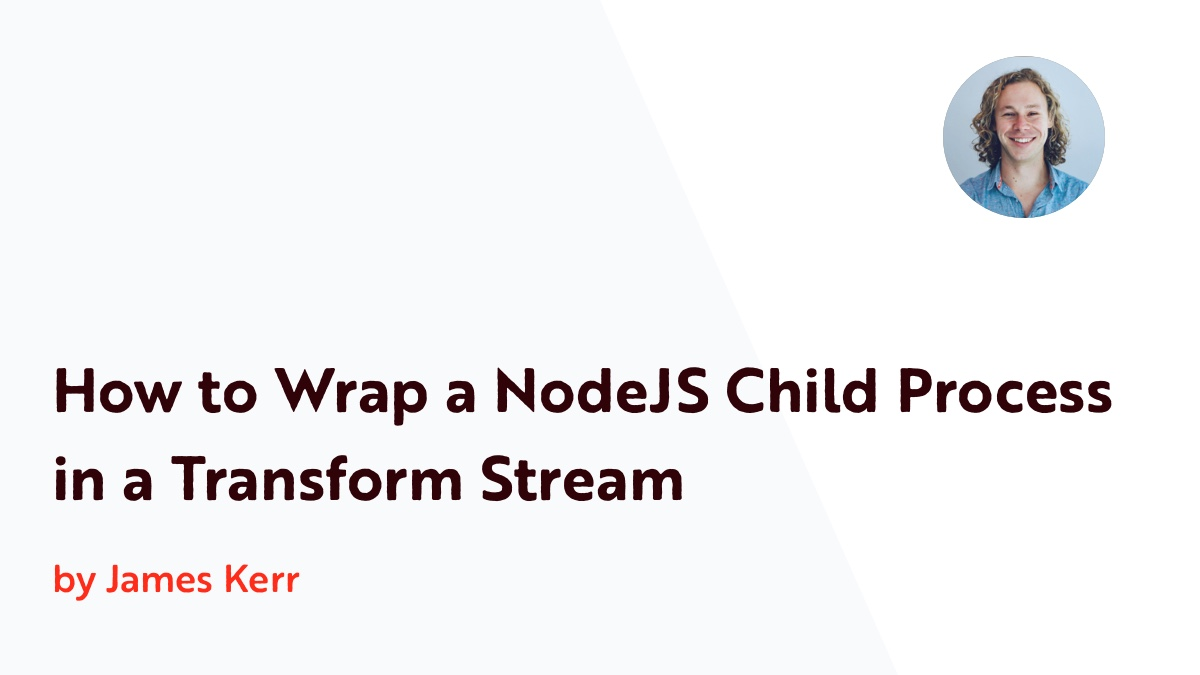
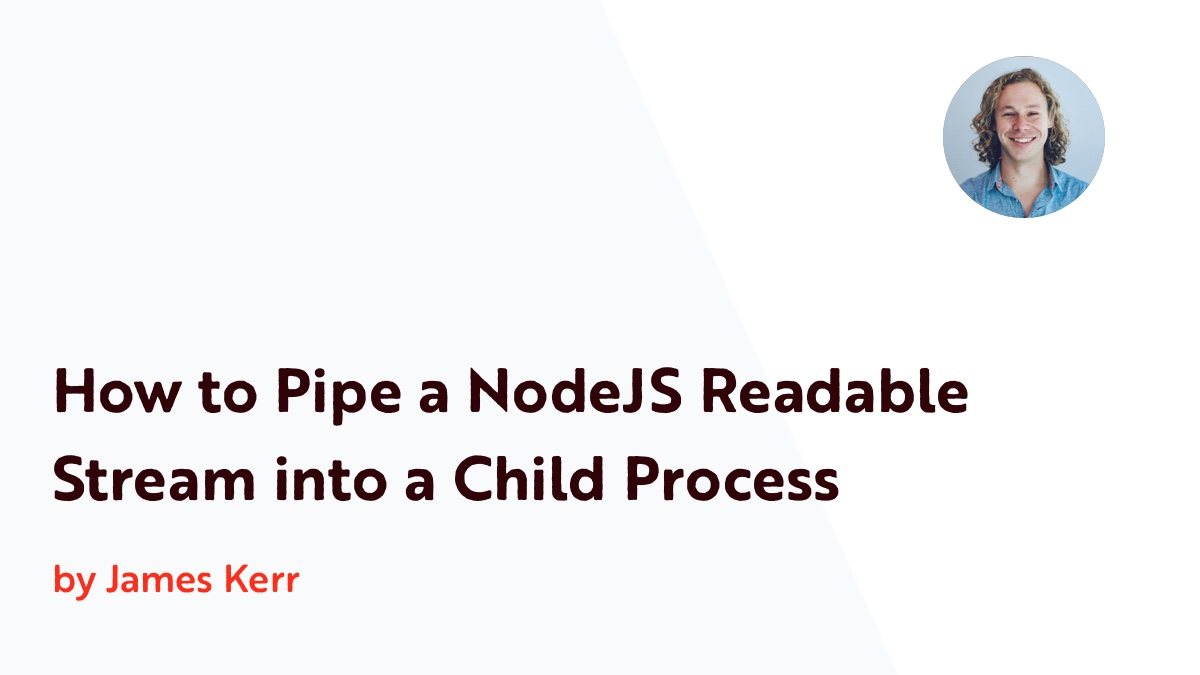
Publish from Desktop

Changed region(s): [[0.2158, 0.5289, 0.925, 0.6222], [0.0308, 0.6533, 0.7092, 0.7467]]

diff --git a/content/posts/Child Process Transform Stream/index.md b/content/posts/Child Process Transform Stream/index.md
@@ -1,8 +1,8 @@
 ---
-title: How to Wrap a NodeJS Child Process in a Transform Stream
+title: How to Pipe a NodeJS Readable Stream into a Child Process
 date: 2023-09-22T10:00:27-07:00
 draft: false
-description: How to wrap a NodeJS child process with a transform stream so that you can use it in a pipeline.
+description: Learn how to wrap a NodeJS child process with a transform stream so that you can use it in a pipeline.
 ---
 
 I love pipes. Anytime I can pipe something somewhere, it seems that order has claimed a victory over chaos. In fact, there is pipe-related photo of me at the end of this article for your viewing pleasure.
